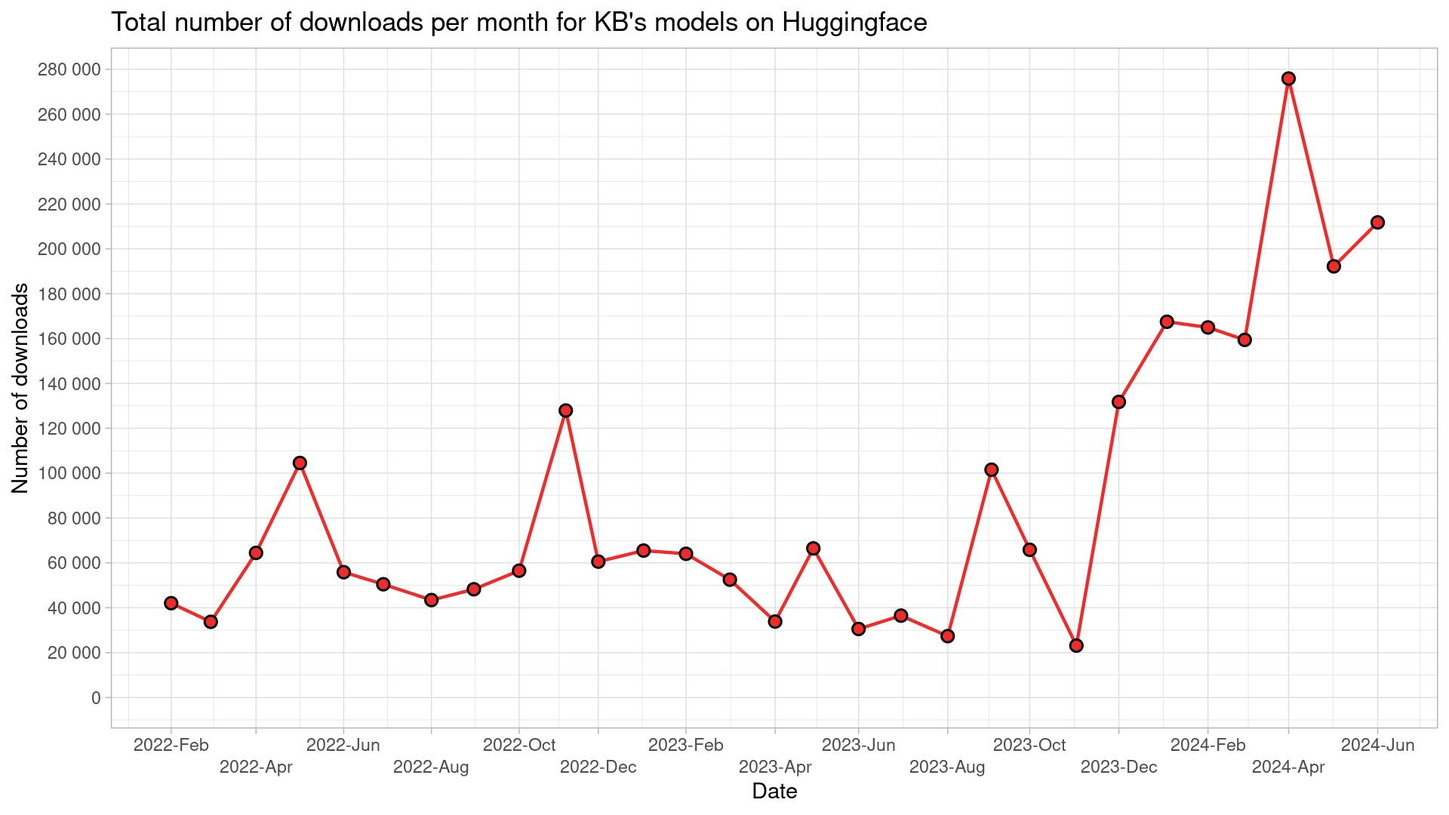
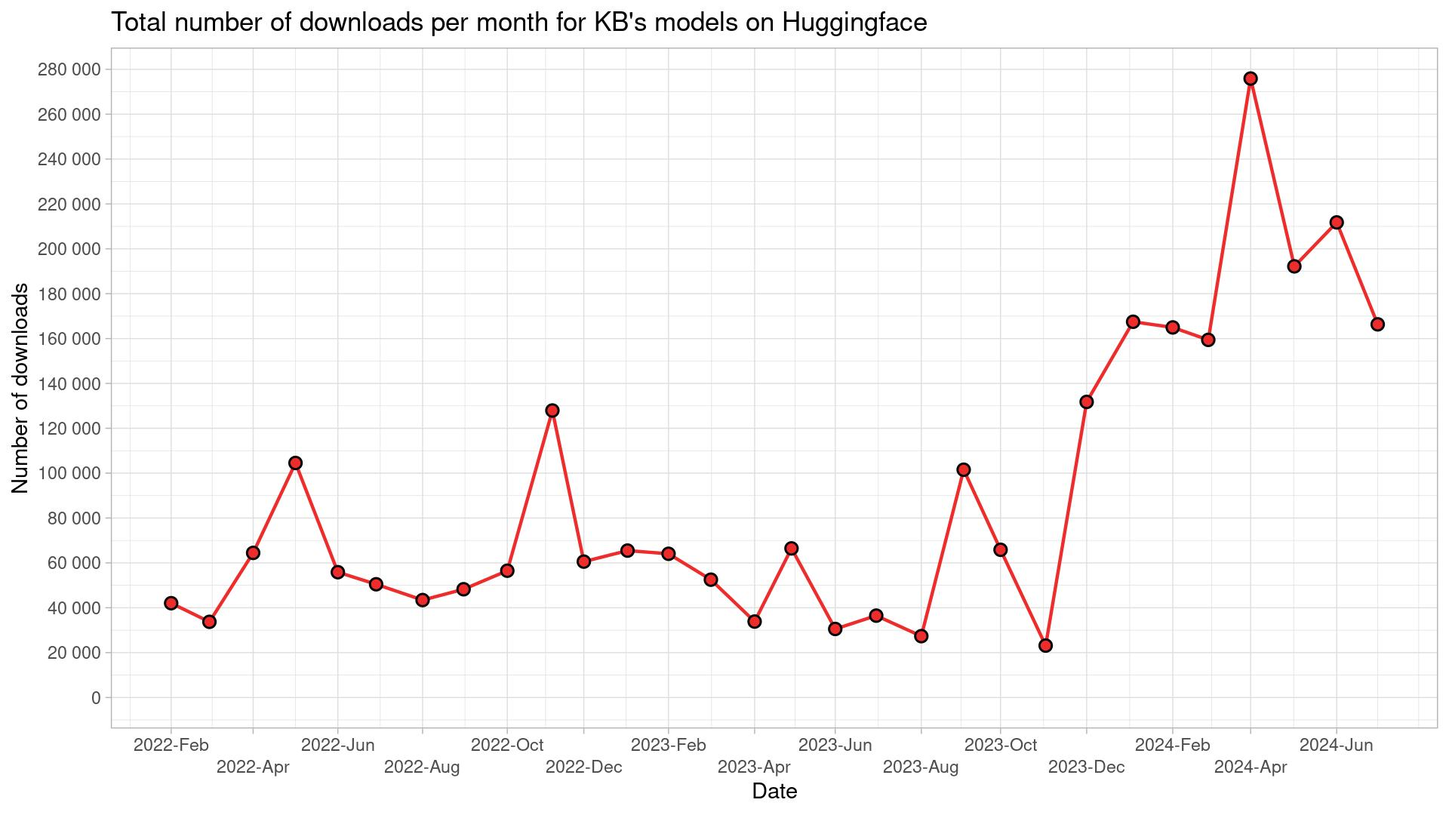
July 2024 update

diff --git a/README.md b/README.md
@@ -12,61 +12,61 @@ Script is run monthly, and a monthly `csv`-file outputted to `/data` folder.
 
 ## Table of downloads
 
-|model_name                                           | 2022-02| 2022-03| 2022-04| 2022-05| 2022-06| 2022-07| 2022-08| 2022-09| 2022-10| 2022-11| 2022-12| 2023-01| 2023-02| 2023-03| 2023-04| 2023-05| 2023-06| 2023-07| 2023-08| 2023-09| 2023-10| 2023-11| 2023-12| 2024-01| 2024-02| 2024-03| 2024-04| 2024-05| 2024-06|
-|:----------------------------------------------------|-------:|-------:|-------:|-------:|-------:|-------:|-------:|-------:|-------:|-------:|-------:|-------:|-------:|-------:|-------:|-------:|-------:|-------:|-------:|-------:|-------:|-------:|-------:|-------:|-------:|-------:|-------:|-------:|-------:|
-|albert-base-swedish-cased-alpha                      |     126|     252|      61|      52|      52|      28|      31|      17|      30|      64|     229|      37|      32|      75|      13|      17|      24|      39|      14|      18|       4|      71|      75|      74|      20|      27|     100|     220|      31|
-|asr-voxrex-bart-base                                 |      11|      10|      19|       5|       2|       1|       1|       3|       2|       3|       2|       4|       9|      15|       7|       2|       4|       7|       4|       3|       8|       2|       5|       1|       6|       8|       5|       8|       8|
-|bart-base-swedish-cased                              |      74|      12|     116|     126|      32|      18|      41|      56|      81|       6|       9|      18|      41|      70|     110|      60|      50|      40|      23|       9|      63|      44|      42|      11|     129|      14|     119|      14|      56|
-|bert-base-swedish-cased                              |   16509|   25080|   49286|   82528|   38802|   29511|   17012|   25106|   36702|   92636|   44016|   28164|   47819|   28864|   17684|   28878|   16390|   24502|   16303|   54271|   29238|    6625|    7620|   17149|    8106|    6290|   10094|    6253|   21139|
-|bert-base-swedish-cased-alpha                        |      22|      24|    1362|      34|       8|      73|       7|      14|      14|      14|      10|     160|     151|       6|       9|       5|       6|       9|       2|      12|       3|       4|       5|       3|       5|      11|      15|       2|       9|
-|bert-base-swedish-cased-ner                          |   19891|    3353|    4783|    4221|   12487|   17406|   24290|   20200|   14852|   11251|   10014|    9759|    9957|   14508|    9834|   12293|    9868|    9701|    8258|    8767|   14214|   10149|  117977|  143050|  139912|  131659|  148695|  144309|  149658|
-|bert-base-swedish-cased-neriob                       |       8|      87|      34|      25|       4|      44|       2|       1|      62|      10|       5|      31|       5|       8|       6|       6|       9|      18|       2|       1|       0|      19|       8|       5|       5|      11|      15|       3|      22|
-|bert-base-swedish-cased-new                          |      NA|       0|     377|    1069|     786|      10|     238|      69|     225|     168|     163|      46|      44|     352|     303|      33|      52|      69|      73|     211|      96|      84|      30|      34|       5|      53|      59|     279|      76|
-|bert-base-swedish-cased-pos                          |     428|     179|     107|     104|     168|     310|       2|       2|     467|    7959|    2083|   21410|    1713|     300|      15|      28|      58|      64|       9|      75|      28|     312|     159|     166|     239|      33|      20|      12|      80|
-|bert-base-swedish-cased-reallysimple-ner             |       6|      32|       9|       7|      11|      10|       3|       8|      10|      17|       4|      16|     159|     401|     211|     334|     327|     326|      74|     152|     341|     304|     274|       3|       7|      14|      14|       4|      12|
-|bert-base-swedish-cased-squad-experimental           |     323|     136|      45|      23|      40|     182|      25|      27|     101|      10|      22|      62|      56|     643|     130|   16262|      29|      29|       4|      16|      10|     280|      64|      34|     275|      30|      44|       4|      13|
-|bert-base-swedish-lowermix-reallysimple-ner          |       6|     453|     248|     312|     901|     991|     930|     871|    2274|    3958|    1963|    3010|    2567|    2485|    3919|    6258|    2875|     121|      53|     417|    4874|     769|     327|     713|      81|     111|     696|     104|     623|
-|electra-base-swedish-cased-discriminator             |     317|     143|     149|    1404|       2|       3|       3|       3|       2|       5|       0|       7|       2|       0|       6|       7|       4|       8|       0|       1|       0|       4|       0|       1|       4|       5|      15|       2|       5|
-|electra-base-swedish-cased-generator                 |       9|      15|      26|      31|       2|      19|       1|      18|       1|       9|       4|      10|       4|      14|      88|      78|     107|      72|       3|      15|      39|      12|       7|      11|       8|      52|      53|       6|      27|
-|electra-small-swedish-cased-discriminator            |      12|       5|    1467|    3804|      10|       5|       2|       2|       2|      10|       8|      12|     153|       1|       9|       2|       6|       4|      18|       6|       0|       3|       0|       7|      11|      13|       9|       4|       9|
-|electra-small-swedish-cased-generator                |      NA|       3|     138|      14|       4|      19|       2|       3|       4|       8|       6|      11|       4|       3|       6|      14|       4|       9|       0|       1|       0|     131|       5|       3|       5|       9|      13|       2|      10|
-|emotional-classification                             |      NA|      NA|      NA|      NA|      NA|      NA|      NA|      NA|      NA|      NA|      NA|      NA|      NA|      NA|      NA|      NA|      NA|     155|       3|       1|       2|      27|       9|       0|       0|      13|      63|       1|       8|
-|megatron-bert-base-swedish-cased-125k                |      NA|       0|     353|       0|       2|       8|       1|       3|     131|      55|     158|      27|      21|      19|       7|       6|      10|      10|       4|       2|       0|       4|      29|      22|       5|       3|       4|      67|       8|
-|megatron-bert-base-swedish-cased-600k                |      NA|      10|     288|      87|      30|      16|      16|      17|     111|      12|      20|     194|      27|      49|      13|      15|     100|      22|       2|       2|      15|      12|      41|      21|       5|      67|       6|      71|      30|
-|megatron-bert-large-swedish-cased-110k               |      NA|       0|     346|      77|       4|       4|       0|       1|       1|     171|     160|      15|       8|      23|       4|       2|       4|       3|       0|   33671|   14716|      38|      63|     106|      29|      70|      79|      43|      31|
-|megatron-bert-large-swedish-cased-165-zero-shot      |      NA|      NA|      NA|      NA|      NA|      NA|      NA|      NA|      NA|      NA|       5|      55|      26|      63|      20|     621|      69|     135|      58|     170|      48|     243|     123|      40|     127|     147|      56|     123|     119|
-|megatron-bert-large-swedish-cased-165k               |      NA|      NA|       9|      13|      40|      19|      53|       2|      18|     336|     327|      21|      34|      67|      43|      56|      36|      52|      13|      86|      37|      12|     343|     153|      24|      18|      24|      15|      15|
-|megatron.bert-base.bpe-32k-no_pretok.25k-steps       |      NA|      NA|      NA|      NA|      NA|      NA|      NA|      NA|      NA|      NA|      NA|      NA|      NA|      NA|      NA|      NA|      NA|      NA|      NA|      NA|      NA|      NA|      NA|      NA|      NA|      NA|      NA|       3|       2|
-|megatron.bert-base.bpe-64k-no_pretok.25k-steps       |      NA|      NA|      NA|      NA|      NA|      NA|      NA|      NA|      NA|      NA|      NA|      NA|      NA|      NA|      NA|      NA|      NA|      NA|      NA|      NA|      NA|      NA|      NA|      NA|      NA|      NA|      NA|       3|       3|
-|megatron.bert-base.spe-bpe-32k-no_pretok.25k-steps   |      NA|      NA|      NA|      NA|      NA|      NA|      NA|      NA|      NA|      NA|      NA|      NA|      NA|      NA|      NA|      NA|      NA|      NA|      NA|      NA|      NA|      NA|      NA|      NA|      NA|      NA|      NA|       3|       3|
-|megatron.bert-base.spe-bpe-32k-pretok.25k-steps      |      NA|      NA|      NA|      NA|      NA|      NA|      NA|      NA|      NA|      NA|      NA|      NA|      NA|      NA|      NA|      NA|      NA|      NA|      NA|      NA|      NA|      NA|      NA|      NA|      NA|      NA|      NA|       3|       3|
-|megatron.bert-base.spe-bpe-64k-no_pretok.25k-steps   |      NA|      NA|      NA|      NA|      NA|      NA|      NA|      NA|      NA|      NA|      NA|      NA|      NA|      NA|      NA|      NA|      NA|      NA|      NA|      NA|      NA|      NA|      NA|      NA|      NA|      NA|      NA|       3|       3|
-|megatron.bert-base.spe-bpe-64k-pretok.25k-steps      |      NA|      NA|      NA|      NA|      NA|      NA|      NA|      NA|      NA|      NA|      NA|      NA|      NA|      NA|      NA|      NA|      NA|      NA|      NA|      NA|      NA|      NA|      NA|      NA|      NA|      NA|      NA|       3|       3|
-|megatron.bert-base.unigram-32k-no_pretok.25k-steps   |      NA|      NA|      NA|      NA|      NA|      NA|      NA|      NA|      NA|      NA|      NA|      NA|      NA|      NA|      NA|      NA|      NA|      NA|      NA|      NA|      NA|      NA|      NA|      NA|      NA|      NA|      NA|       3|       3|
-|megatron.bert-base.unigram-32k-pretok.25k-steps      |      NA|      NA|      NA|      NA|      NA|      NA|      NA|      NA|      NA|      NA|      NA|      NA|      NA|      NA|      NA|      NA|      NA|      NA|      NA|      NA|      NA|      NA|      NA|      NA|      NA|      NA|      NA|       3|       3|
-|megatron.bert-base.unigram-64k-no_pretok.25k-steps   |      NA|      NA|      NA|      NA|      NA|      NA|      NA|      NA|      NA|      NA|      NA|      NA|      NA|      NA|      NA|      NA|      NA|      NA|      NA|      NA|      NA|      NA|      NA|      NA|      NA|      NA|      NA|       3|       3|
-|megatron.bert-base.unigram-64k-pretok.25k-steps      |      NA|      NA|      NA|      NA|      NA|      NA|      NA|      NA|      NA|      NA|      NA|      NA|      NA|      NA|      NA|      NA|      NA|      NA|      NA|      NA|      NA|      NA|      NA|      NA|      NA|      NA|      NA|       3|       4|
-|megatron.bert-base.wordpiece-32k-no_pretok.25k-steps |      NA|      NA|      NA|      NA|      NA|      NA|      NA|      NA|      NA|      NA|      NA|      NA|      NA|      NA|      NA|      NA|      NA|      NA|      NA|      NA|      NA|      NA|      NA|      NA|      NA|      NA|      NA|       3|       3|
-|megatron.bert-base.wordpiece-32k-pretok.25k-steps    |      NA|      NA|      NA|      NA|      NA|      NA|      NA|      NA|      NA|      NA|      NA|      NA|      NA|      NA|      NA|      NA|      NA|      NA|      NA|      NA|      NA|      NA|      NA|      NA|      NA|      NA|      NA|       9|       3|
-|megatron.bert-base.wordpiece-64k-no_pretok.25k-steps |      NA|      NA|      NA|      NA|      NA|      NA|      NA|      NA|      NA|      NA|      NA|      NA|      NA|      NA|      NA|      NA|      NA|      NA|      NA|      NA|      NA|      NA|      NA|      NA|      NA|      NA|      NA|       3|       3|
-|megatron.bert-base.wordpiece-64k-pretok.25k-steps    |      NA|      NA|      NA|      NA|      NA|      NA|      NA|      NA|      NA|      NA|      NA|      NA|      NA|      NA|      NA|      NA|      NA|      NA|      NA|      NA|      NA|      NA|      NA|      NA|      NA|      NA|      NA|       3|       3|
-|megatron.bert-large.bpe-64k-no_pretok.25k-steps      |      NA|      NA|      NA|      NA|      NA|      NA|      NA|      NA|      NA|      NA|      NA|      NA|      NA|      NA|      NA|      NA|      NA|      NA|      NA|      NA|      NA|      NA|      NA|      NA|      NA|      NA|      NA|       3|       3|
-|megatron.bert-large.spe-bpe-32k-pretok.25k-steps     |      NA|      NA|      NA|      NA|      NA|      NA|      NA|      NA|      NA|      NA|      NA|      NA|      NA|      NA|      NA|      NA|      NA|      NA|      NA|      NA|      NA|      NA|      NA|      NA|      NA|      NA|      NA|       3|       3|
-|megatron.bert-large.unigram-32k-pretok.25k-steps     |      NA|      NA|      NA|      NA|      NA|      NA|      NA|      NA|      NA|      NA|      NA|      NA|      NA|      NA|      NA|      NA|      NA|      NA|      NA|      NA|      NA|      NA|      NA|      NA|      NA|      NA|      NA|       3|       3|
-|megatron.bert-large.unigram-64k-pretok.25k-steps     |      NA|      NA|      NA|      NA|      NA|      NA|      NA|      NA|      NA|      NA|      NA|      NA|      NA|      NA|      NA|      NA|      NA|      NA|      NA|      NA|      NA|      NA|      NA|      NA|      NA|      NA|      NA|       3|       3|
-|megatron.bert-large.unigram-64k-pretok.500k-steps    |      NA|      NA|      NA|      NA|      NA|      NA|      NA|      NA|      NA|      NA|      NA|      NA|      NA|      NA|      NA|      NA|      NA|      NA|      NA|      NA|      NA|      NA|      NA|      NA|      NA|     310|      11|       1|       1|
-|megatron.bert-large.wordpiece-32k-pretok.25k-steps   |      NA|      NA|      NA|      NA|      NA|      NA|      NA|      NA|      NA|      NA|      NA|      NA|      NA|      NA|      NA|      NA|      NA|      NA|      NA|      NA|      NA|      NA|      NA|      NA|      NA|      NA|      NA|       3|       3|
-|megatron.bert-large.wordpiece-64k-pretok.25k-steps   |      NA|      NA|      NA|      NA|      NA|      NA|      NA|      NA|      NA|      NA|      NA|      NA|      NA|      NA|      NA|      NA|      NA|      NA|      NA|      NA|      NA|      NA|      NA|      NA|      NA|      NA|      NA|       9|       4|
-|piper-tts-nst-swedish                                |      NA|      NA|      NA|      NA|      NA|      NA|      NA|      NA|      NA|      NA|      NA|      NA|      NA|      NA|      NA|       1|       8|       3|       0|       0|       0|       1|       0|       0|       0|       3|       7|      11|       3|
-|roberta-base-swedish-cased                           |       7|       7|     471|       8|      78|       5|      67|       2|       0|       5|       5|      37|     150|       3|       6|     204|      10|       9|       1|       2|       2|       2|       3|       3|      30|      15|       9|       3|      10|
-|robust-swedish-sentiment-multiclass                  |      NA|      NA|      NA|      NA|      NA|      NA|      NA|      NA|      NA|      NA|      NA|      NA|      NA|      NA|      NA|      NA|      12|     296|       8|      58|     119|    1505|    2263|    2206|    2178|    2895|    7783|    2968|    5544|
-|sentence-bert-swedish-cased                          |    2033|    1988|    2079|    8110|     721|    1299|     304|    1157|     597|    1008|     887|    1441|     546|    3499|     955|     970|     327|     328|    2135|    2841|    1071|    1067|    1258|     383|    1733|    6143|  101722|    8376|   15360|
-|swedish-spacy-pipeline                               |      65|      22|       5|       2|       5|       9|       1|       2|       0|       1|       3|       4|       6|      90|       3|       1|       0|       1|       3|       9|       5|       5|       5|       3|      56|       5|       4|       2|       2|
-|wav2vec2-base-voxpopuli-sv-swedish                   |      NA|      21|      19|       7|       1|      NA|       1|       5|      99|       6|       2|      13|      57|      12|      56|       4|      26|       9|       0|       1|       7|       4|       2|     113|       5|       6|      12|       4|       9|
-|wav2vec2-large-voxpopuli-sv-swedish                  |      58|      32|      73|      57|      24|       5|       5|      11|      59|      15|       7|      23|       9|      10|      13|      10|       7|      14|       4|       1|       5|      26|       2|       3|      12|     117|      14|      13|       2|
-|wav2vec2-large-voxrex                                |     780|     609|     996|      57|     102|      55|      13|      34|      74|       4|       0|      56|      17|      11|       8|      17|       4|      15|       2|       1|      13|       6|       3|       1|      12|      10|      10|      20|      18|
-|wav2vec2-large-voxrex-swedish                        |    1356|    1151|    1534|    2331|    1277|     334|     361|     611|     531|   10157|     146|     770|     411|     732|     290|     225|      65|     330|     217|     624|     752|     769|     829|     392|    3000|    2389|    3129|    4330|    5762|
-|wav2vec2-large-xlsr-53-swedish                       |      NA|     112|      55|      32|     259|      91|      19|       9|      61|      26|     307|      71|      32|      76|      26|      31|      45|      65|      50|      77|     126|     586|     188|    2766|    8897|    8785|    2962|   24811|   12976|
-|whisper-large-rixvox                                 |      NA|      NA|      NA|      NA|      NA|      NA|      NA|      NA|      NA|      NA|      NA|      NA|      NA|     113|      56|       8|       9|      12|       9|       6|       0|      16|       0|       2|      19|      38|      18|      12|      11|
-|whisper-small-rixvox                                 |      NA|      NA|      NA|      NA|      NA|      NA|      NA|      NA|      NA|      NA|      NA|      NA|      NA|       3|       1|       6|       2|       7|       0|       0|       0|       1|       0|       0|       0|      13|       2|       1|       7|
-|whisper-tiny-rixvox                                  |      NA|      NA|      NA|      NA|      NA|      NA|      NA|      NA|      NA|      NA|      NA|      NA|      NA|       9|       1|       5|       4|       7|       3|       0|       0|       1|       0|       0|       2|      12|       6|       1|       7|
+|model_name                                           | 2022-02| 2022-03| 2022-04| 2022-05| 2022-06| 2022-07| 2022-08| 2022-09| 2022-10| 2022-11| 2022-12| 2023-01| 2023-02| 2023-03| 2023-04| 2023-05| 2023-06| 2023-07| 2023-08| 2023-09| 2023-10| 2023-11| 2023-12| 2024-01| 2024-02| 2024-03| 2024-04| 2024-05| 2024-06| 2024-07|
+|:----------------------------------------------------|-------:|-------:|-------:|-------:|-------:|-------:|-------:|-------:|-------:|-------:|-------:|-------:|-------:|-------:|-------:|-------:|-------:|-------:|-------:|-------:|-------:|-------:|-------:|-------:|-------:|-------:|-------:|-------:|-------:|-------:|
+|albert-base-swedish-cased-alpha                      |     126|     252|      61|      52|      52|      28|      31|      17|      30|      64|     229|      37|      32|      75|      13|      17|      24|      39|      14|      18|       4|      71|      75|      74|      20|      27|     100|     220|      31|      19|
+|asr-voxrex-bart-base                                 |      11|      10|      19|       5|       2|       1|       1|       3|       2|       3|       2|       4|       9|      15|       7|       2|       4|       7|       4|       3|       8|       2|       5|       1|       6|       8|       5|       8|       8|      50|
+|bart-base-swedish-cased                              |      74|      12|     116|     126|      32|      18|      41|      56|      81|       6|       9|      18|      41|      70|     110|      60|      50|      40|      23|       9|      63|      44|      42|      11|     129|      14|     119|      14|      56|      32|
+|bert-base-swedish-cased                              |   16509|   25080|   49286|   82528|   38802|   29511|   17012|   25106|   36702|   92636|   44016|   28164|   47819|   28864|   17684|   28878|   16390|   24502|   16303|   54271|   29238|    6625|    7620|   17149|    8106|    6290|   10094|    6253|   21139|   15689|
+|bert-base-swedish-cased-alpha                        |      22|      24|    1362|      34|       8|      73|       7|      14|      14|      14|      10|     160|     151|       6|       9|       5|       6|       9|       2|      12|       3|       4|       5|       3|       5|      11|      15|       2|       9|       8|
+|bert-base-swedish-cased-ner                          |   19891|    3353|    4783|    4221|   12487|   17406|   24290|   20200|   14852|   11251|   10014|    9759|    9957|   14508|    9834|   12293|    9868|    9701|    8258|    8767|   14214|   10149|  117977|  143050|  139912|  131659|  148695|  144309|  149658|  100264|
+|bert-base-swedish-cased-neriob                       |       8|      87|      34|      25|       4|      44|       2|       1|      62|      10|       5|      31|       5|       8|       6|       6|       9|      18|       2|       1|       0|      19|       8|       5|       5|      11|      15|       3|      22|       7|
+|bert-base-swedish-cased-new                          |      NA|       0|     377|    1069|     786|      10|     238|      69|     225|     168|     163|      46|      44|     352|     303|      33|      52|      69|      73|     211|      96|      84|      30|      34|       5|      53|      59|     279|      76|      27|
+|bert-base-swedish-cased-pos                          |     428|     179|     107|     104|     168|     310|       2|       2|     467|    7959|    2083|   21410|    1713|     300|      15|      28|      58|      64|       9|      75|      28|     312|     159|     166|     239|      33|      20|      12|      80|      32|
+|bert-base-swedish-cased-reallysimple-ner             |       6|      32|       9|       7|      11|      10|       3|       8|      10|      17|       4|      16|     159|     401|     211|     334|     327|     326|      74|     152|     341|     304|     274|       3|       7|      14|      14|       4|      12|       6|
+|bert-base-swedish-cased-squad-experimental           |     323|     136|      45|      23|      40|     182|      25|      27|     101|      10|      22|      62|      56|     643|     130|   16262|      29|      29|       4|      16|      10|     280|      64|      34|     275|      30|      44|       4|      13|      36|
+|bert-base-swedish-lowermix-reallysimple-ner          |       6|     453|     248|     312|     901|     991|     930|     871|    2274|    3958|    1963|    3010|    2567|    2485|    3919|    6258|    2875|     121|      53|     417|    4874|     769|     327|     713|      81|     111|     696|     104|     623|      31|
+|electra-base-swedish-cased-discriminator             |     317|     143|     149|    1404|       2|       3|       3|       3|       2|       5|       0|       7|       2|       0|       6|       7|       4|       8|       0|       1|       0|       4|       0|       1|       4|       5|      15|       2|       5|       4|
+|electra-base-swedish-cased-generator                 |       9|      15|      26|      31|       2|      19|       1|      18|       1|       9|       4|      10|       4|      14|      88|      78|     107|      72|       3|      15|      39|      12|       7|      11|       8|      52|      53|       6|      27|       2|
+|electra-small-swedish-cased-discriminator            |      12|       5|    1467|    3804|      10|       5|       2|       2|       2|      10|       8|      12|     153|       1|       9|       2|       6|       4|      18|       6|       0|       3|       0|       7|      11|      13|       9|       4|       9|       7|
+|electra-small-swedish-cased-generator                |      NA|       3|     138|      14|       4|      19|       2|       3|       4|       8|       6|      11|       4|       3|       6|      14|       4|       9|       0|       1|       0|     131|       5|       3|       5|       9|      13|       2|      10|       4|
+|emotional-classification                             |      NA|      NA|      NA|      NA|      NA|      NA|      NA|      NA|      NA|      NA|      NA|      NA|      NA|      NA|      NA|      NA|      NA|     155|       3|       1|       2|      27|       9|       0|       0|      13|      63|       1|       8|       2|
+|megatron-bert-base-swedish-cased-125k                |      NA|       0|     353|       0|       2|       8|       1|       3|     131|      55|     158|      27|      21|      19|       7|       6|      10|      10|       4|       2|       0|       4|      29|      22|       5|       3|       4|      67|       8|       2|
+|megatron-bert-base-swedish-cased-600k                |      NA|      10|     288|      87|      30|      16|      16|      17|     111|      12|      20|     194|      27|      49|      13|      15|     100|      22|       2|       2|      15|      12|      41|      21|       5|      67|       6|      71|      30|       6|
+|megatron-bert-large-swedish-cased-110k               |      NA|       0|     346|      77|       4|       4|       0|       1|       1|     171|     160|      15|       8|      23|       4|       2|       4|       3|       0|   33671|   14716|      38|      63|     106|      29|      70|      79|      43|      31|      24|
+|megatron-bert-large-swedish-cased-165-zero-shot      |      NA|      NA|      NA|      NA|      NA|      NA|      NA|      NA|      NA|      NA|       5|      55|      26|      63|      20|     621|      69|     135|      58|     170|      48|     243|     123|      40|     127|     147|      56|     123|     119|       7|
+|megatron-bert-large-swedish-cased-165k               |      NA|      NA|       9|      13|      40|      19|      53|       2|      18|     336|     327|      21|      34|      67|      43|      56|      36|      52|      13|      86|      37|      12|     343|     153|      24|      18|      24|      15|      15|       3|
+|megatron.bert-base.bpe-32k-no_pretok.25k-steps       |      NA|      NA|      NA|      NA|      NA|      NA|      NA|      NA|      NA|      NA|      NA|      NA|      NA|      NA|      NA|      NA|      NA|      NA|      NA|      NA|      NA|      NA|      NA|      NA|      NA|      NA|      NA|       3|       2|       4|
+|megatron.bert-base.bpe-64k-no_pretok.25k-steps       |      NA|      NA|      NA|      NA|      NA|      NA|      NA|      NA|      NA|      NA|      NA|      NA|      NA|      NA|      NA|      NA|      NA|      NA|      NA|      NA|      NA|      NA|      NA|      NA|      NA|      NA|      NA|       3|       3|       3|
+|megatron.bert-base.spe-bpe-32k-no_pretok.25k-steps   |      NA|      NA|      NA|      NA|      NA|      NA|      NA|      NA|      NA|      NA|      NA|      NA|      NA|      NA|      NA|      NA|      NA|      NA|      NA|      NA|      NA|      NA|      NA|      NA|      NA|      NA|      NA|       3|       3|       3|
+|megatron.bert-base.spe-bpe-32k-pretok.25k-steps      |      NA|      NA|      NA|      NA|      NA|      NA|      NA|      NA|      NA|      NA|      NA|      NA|      NA|      NA|      NA|      NA|      NA|      NA|      NA|      NA|      NA|      NA|      NA|      NA|      NA|      NA|      NA|       3|       3|       3|
+|megatron.bert-base.spe-bpe-64k-no_pretok.25k-steps   |      NA|      NA|      NA|      NA|      NA|      NA|      NA|      NA|      NA|      NA|      NA|      NA|      NA|      NA|      NA|      NA|      NA|      NA|      NA|      NA|      NA|      NA|      NA|      NA|      NA|      NA|      NA|       3|       3|       4|
+|megatron.bert-base.spe-bpe-64k-pretok.25k-steps      |      NA|      NA|      NA|      NA|      NA|      NA|      NA|      NA|      NA|      NA|      NA|      NA|      NA|      NA|      NA|      NA|      NA|      NA|      NA|      NA|      NA|      NA|      NA|      NA|      NA|      NA|      NA|       3|       3|       2|
+|megatron.bert-base.unigram-32k-no_pretok.25k-steps   |      NA|      NA|      NA|      NA|      NA|      NA|      NA|      NA|      NA|      NA|      NA|      NA|      NA|      NA|      NA|      NA|      NA|      NA|      NA|      NA|      NA|      NA|      NA|      NA|      NA|      NA|      NA|       3|       3|       3|
+|megatron.bert-base.unigram-32k-pretok.25k-steps      |      NA|      NA|      NA|      NA|      NA|      NA|      NA|      NA|      NA|      NA|      NA|      NA|      NA|      NA|      NA|      NA|      NA|      NA|      NA|      NA|      NA|      NA|      NA|      NA|      NA|      NA|      NA|       3|       3|       3|
+|megatron.bert-base.unigram-64k-no_pretok.25k-steps   |      NA|      NA|      NA|      NA|      NA|      NA|      NA|      NA|      NA|      NA|      NA|      NA|      NA|      NA|      NA|      NA|      NA|      NA|      NA|      NA|      NA|      NA|      NA|      NA|      NA|      NA|      NA|       3|       3|       3|
+|megatron.bert-base.unigram-64k-pretok.25k-steps      |      NA|      NA|      NA|      NA|      NA|      NA|      NA|      NA|      NA|      NA|      NA|      NA|      NA|      NA|      NA|      NA|      NA|      NA|      NA|      NA|      NA|      NA|      NA|      NA|      NA|      NA|      NA|       3|       4|       3|
+|megatron.bert-base.wordpiece-32k-no_pretok.25k-steps |      NA|      NA|      NA|      NA|      NA|      NA|      NA|      NA|      NA|      NA|      NA|      NA|      NA|      NA|      NA|      NA|      NA|      NA|      NA|      NA|      NA|      NA|      NA|      NA|      NA|      NA|      NA|       3|       3|       3|
+|megatron.bert-base.wordpiece-32k-pretok.25k-steps    |      NA|      NA|      NA|      NA|      NA|      NA|      NA|      NA|      NA|      NA|      NA|      NA|      NA|      NA|      NA|      NA|      NA|      NA|      NA|      NA|      NA|      NA|      NA|      NA|      NA|      NA|      NA|       9|       3|       3|
+|megatron.bert-base.wordpiece-64k-no_pretok.25k-steps |      NA|      NA|      NA|      NA|      NA|      NA|      NA|      NA|      NA|      NA|      NA|      NA|      NA|      NA|      NA|      NA|      NA|      NA|      NA|      NA|      NA|      NA|      NA|      NA|      NA|      NA|      NA|       3|       3|       3|
+|megatron.bert-base.wordpiece-64k-pretok.25k-steps    |      NA|      NA|      NA|      NA|      NA|      NA|      NA|      NA|      NA|      NA|      NA|      NA|      NA|      NA|      NA|      NA|      NA|      NA|      NA|      NA|      NA|      NA|      NA|      NA|      NA|      NA|      NA|       3|       3|       2|
+|megatron.bert-large.bpe-64k-no_pretok.25k-steps      |      NA|      NA|      NA|      NA|      NA|      NA|      NA|      NA|      NA|      NA|      NA|      NA|      NA|      NA|      NA|      NA|      NA|      NA|      NA|      NA|      NA|      NA|      NA|      NA|      NA|      NA|      NA|       3|       3|       3|
+|megatron.bert-large.spe-bpe-32k-pretok.25k-steps     |      NA|      NA|      NA|      NA|      NA|      NA|      NA|      NA|      NA|      NA|      NA|      NA|      NA|      NA|      NA|      NA|      NA|      NA|      NA|      NA|      NA|      NA|      NA|      NA|      NA|      NA|      NA|       3|       3|       3|
+|megatron.bert-large.unigram-32k-pretok.25k-steps     |      NA|      NA|      NA|      NA|      NA|      NA|      NA|      NA|      NA|      NA|      NA|      NA|      NA|      NA|      NA|      NA|      NA|      NA|      NA|      NA|      NA|      NA|      NA|      NA|      NA|      NA|      NA|       3|       3|       2|
+|megatron.bert-large.unigram-64k-pretok.25k-steps     |      NA|      NA|      NA|      NA|      NA|      NA|      NA|      NA|      NA|      NA|      NA|      NA|      NA|      NA|      NA|      NA|      NA|      NA|      NA|      NA|      NA|      NA|      NA|      NA|      NA|      NA|      NA|       3|       3|       3|
+|megatron.bert-large.unigram-64k-pretok.500k-steps    |      NA|      NA|      NA|      NA|      NA|      NA|      NA|      NA|      NA|      NA|      NA|      NA|      NA|      NA|      NA|      NA|      NA|      NA|      NA|      NA|      NA|      NA|      NA|      NA|      NA|     310|      11|       1|       1|       2|
+|megatron.bert-large.wordpiece-32k-pretok.25k-steps   |      NA|      NA|      NA|      NA|      NA|      NA|      NA|      NA|      NA|      NA|      NA|      NA|      NA|      NA|      NA|      NA|      NA|      NA|      NA|      NA|      NA|      NA|      NA|      NA|      NA|      NA|      NA|       3|       3|       3|
+|megatron.bert-large.wordpiece-64k-pretok.25k-steps   |      NA|      NA|      NA|      NA|      NA|      NA|      NA|      NA|      NA|      NA|      NA|      NA|      NA|      NA|      NA|      NA|      NA|      NA|      NA|      NA|      NA|      NA|      NA|      NA|      NA|      NA|      NA|       9|       4|       3|
+|piper-tts-nst-swedish                                |      NA|      NA|      NA|      NA|      NA|      NA|      NA|      NA|      NA|      NA|      NA|      NA|      NA|      NA|      NA|       1|       8|       3|       0|       0|       0|       1|       0|       0|       0|       3|       7|      11|       3|       1|
+|roberta-base-swedish-cased                           |       7|       7|     471|       8|      78|       5|      67|       2|       0|       5|       5|      37|     150|       3|       6|     204|      10|       9|       1|       2|       2|       2|       3|       3|      30|      15|       9|       3|      10|       3|
+|robust-swedish-sentiment-multiclass                  |      NA|      NA|      NA|      NA|      NA|      NA|      NA|      NA|      NA|      NA|      NA|      NA|      NA|      NA|      NA|      NA|      12|     296|       8|      58|     119|    1505|    2263|    2206|    2178|    2895|    7783|    2968|    5544|   36910|
+|sentence-bert-swedish-cased                          |    2033|    1988|    2079|    8110|     721|    1299|     304|    1157|     597|    1008|     887|    1441|     546|    3499|     955|     970|     327|     328|    2135|    2841|    1071|    1067|    1258|     383|    1733|    6143|  101722|    8376|   15360|    1376|
+|swedish-spacy-pipeline                               |      65|      22|       5|       2|       5|       9|       1|       2|       0|       1|       3|       4|       6|      90|       3|       1|       0|       1|       3|       9|       5|       5|       5|       3|      56|       5|       4|       2|       2|       8|
+|wav2vec2-base-voxpopuli-sv-swedish                   |      NA|      21|      19|       7|       1|      NA|       1|       5|      99|       6|       2|      13|      57|      12|      56|       4|      26|       9|       0|       1|       7|       4|       2|     113|       5|       6|      12|       4|       9|       6|
+|wav2vec2-large-voxpopuli-sv-swedish                  |      58|      32|      73|      57|      24|       5|       5|      11|      59|      15|       7|      23|       9|      10|      13|      10|       7|      14|       4|       1|       5|      26|       2|       3|      12|     117|      14|      13|       2|      19|
+|wav2vec2-large-voxrex                                |     780|     609|     996|      57|     102|      55|      13|      34|      74|       4|       0|      56|      17|      11|       8|      17|       4|      15|       2|       1|      13|       6|       3|       1|      12|      10|      10|      20|      18|       8|
+|wav2vec2-large-voxrex-swedish                        |    1356|    1151|    1534|    2331|    1277|     334|     361|     611|     531|   10157|     146|     770|     411|     732|     290|     225|      65|     330|     217|     624|     752|     769|     829|     392|    3000|    2389|    3129|    4330|    5762|    7066|
+|wav2vec2-large-xlsr-53-swedish                       |      NA|     112|      55|      32|     259|      91|      19|       9|      61|      26|     307|      71|      32|      76|      26|      31|      45|      65|      50|      77|     126|     586|     188|    2766|    8897|    8785|    2962|   24811|   12976|    4572|
+|whisper-large-rixvox                                 |      NA|      NA|      NA|      NA|      NA|      NA|      NA|      NA|      NA|      NA|      NA|      NA|      NA|     113|      56|       8|       9|      12|       9|       6|       0|      16|       0|       2|      19|      38|      18|      12|      11|      31|
+|whisper-small-rixvox                                 |      NA|      NA|      NA|      NA|      NA|      NA|      NA|      NA|      NA|      NA|      NA|      NA|      NA|       3|       1|       6|       2|       7|       0|       0|       0|       1|       0|       0|       0|      13|       2|       1|       7|       1|
+|whisper-tiny-rixvox                                  |      NA|      NA|      NA|      NA|      NA|      NA|      NA|      NA|      NA|      NA|      NA|      NA|      NA|       9|       1|       5|       4|       7|       3|       0|       0|       1|       0|       0|       2|      12|       6|       1|       7|       1|
